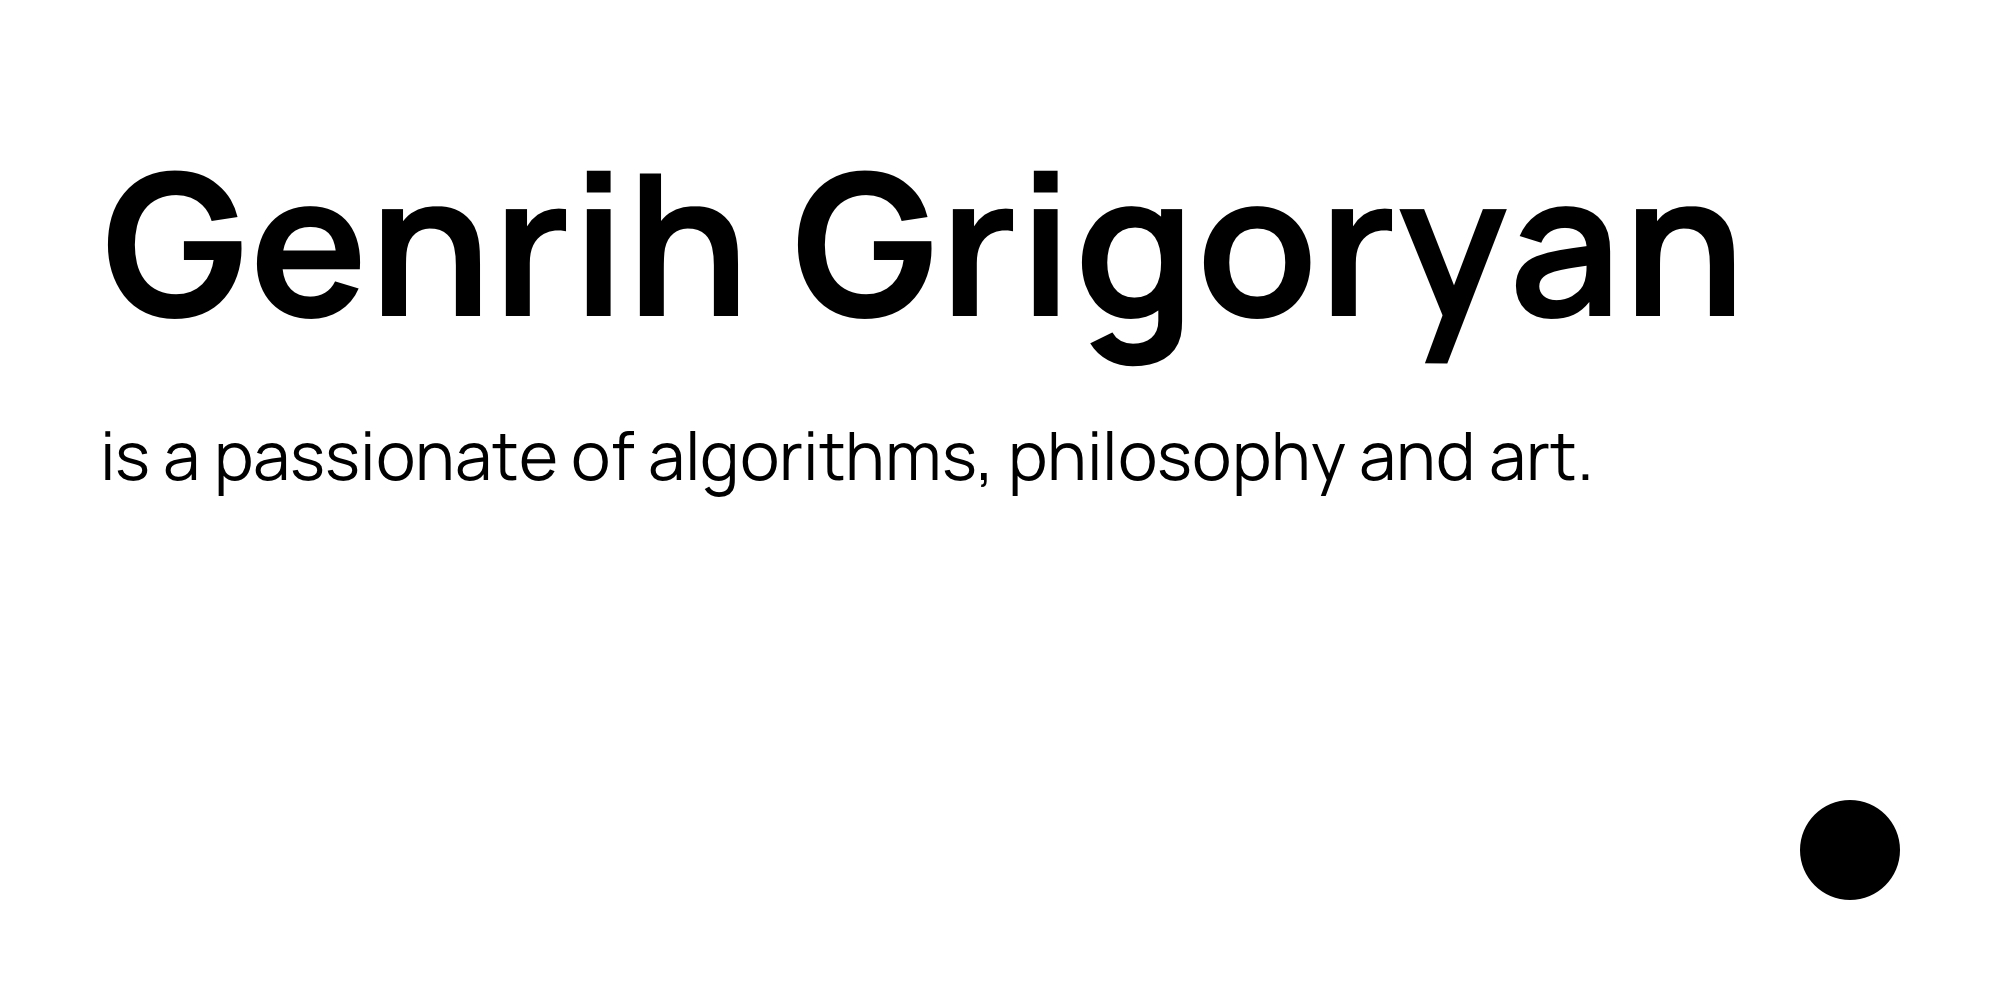
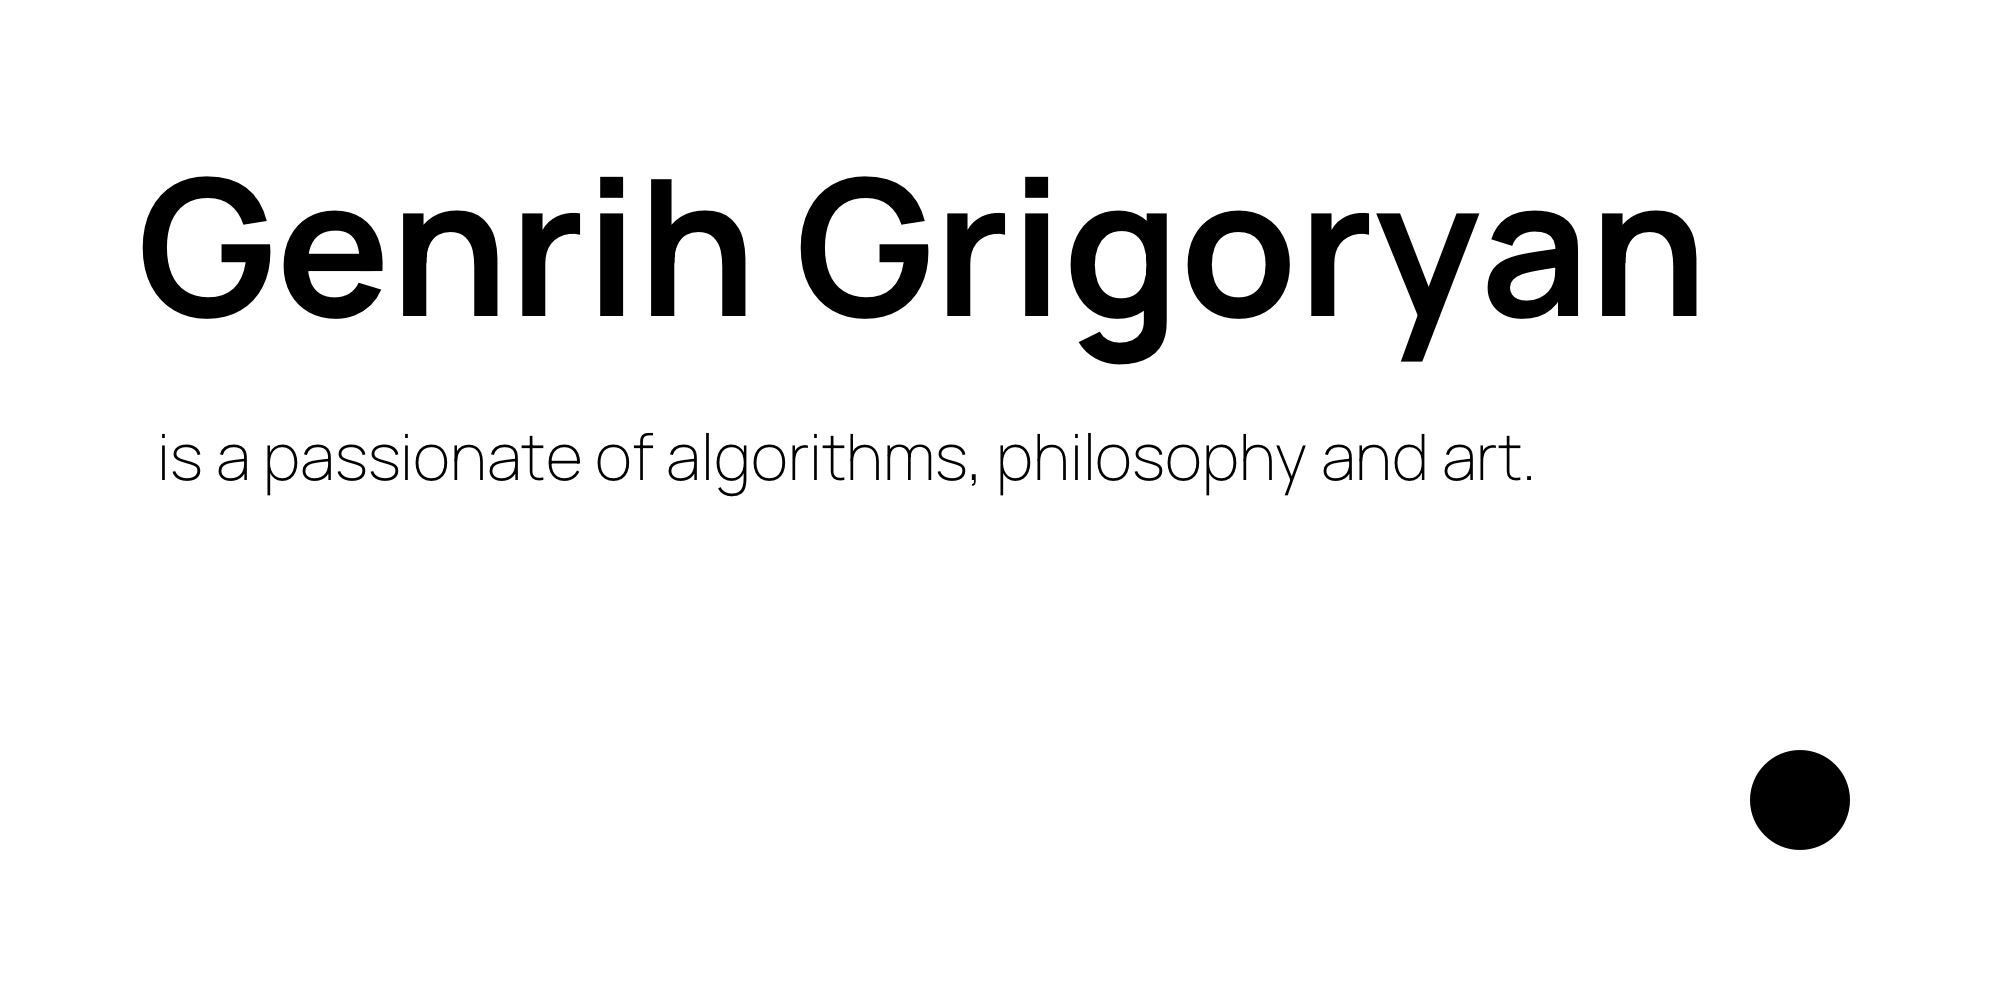
origin

diff --git a/index.html b/index.html
@@ -47,22 +47,38 @@
       </ul>
     </li>
   -->
+
+  <li><strong><a class = "internal-link" href="https://origin.genrihgrigoryan.com">Origin</a></strong>
+    <p>A place where all of my cultural activity converge to one point.
+    <br/>Unites the <strong><a class="internal-link" href="https://origin.genrihgrigoryan.com/eidoslib">Information</a></strong> i research, <strong><a class="internal-link" href="https://origin.genrihgrigoryan.com/exlimbus">Ideas</a></strong> i find, and <strong><a class="internal-link" href="https://origin.genrihgrigoryan.com/discreteblack">Art</a></strong> i create.
+    </p>
+    <hr>
+  </li>
+
     <li><strong><a class = "internal-link" href="https://badmangames.com">Badmangames</a></strong>
+      <p>My past mobile indie game development.
+      <br/>Released <strong><a class = "internal-link" href="">Last Light</a></strong>, <strong><a class = "internal-link" href="">Skid Rally</a></strong> and <strong><a class = "internal-link" href="">Cyber Gun Flip</a></strong>.
+      </p>
+      <!--
       <ul>
         <li><a href="">Last Light</a></li>
         <li><a href="">Skid Rally</a></li>
         <li><a href="">Cyber Gun Flip</a></li>
       </ul>
+      -->
     </li>
   </ul>
 
   <h2 id="Contacts">Contacts</h2>
+  <a href="https://t.me/genrihgrigoryan">Telegram</a> . <a href="https://vk.com/genrihgrigoryan">VK</a> . <a href="mailto:iamgenrih@gmail.com">Email</a>
+  <!--
   <ul>
-    <li><a href="https://vk.com/genrihgrigoryan">VK</a></li>
-    <li><a href="https://t.me/genrihgrigoryan">Telegram</a></li>
-    <li><a href="mailto:iamgenrih@gmail.com">Email</a></li>
-  </ul>
+    <li><a href="https://vk.com/genrihgrigoryan">vk</a></li>
+    <li><a href="https://t.me/genrihgrigoryan">telegram</a></li>
+    <li><a href="mailto:iamgenrih@gmail.com">email</a></li>
 
+  </ul>
+-->
 
   <footer>
     <div style="margin:4em auto; font-size: 18px; text-align:center;">

diff --git a/style.css b/style.css
@@ -69,7 +69,7 @@ html {
     */
     font-family: Manrope, sans-serif;
     font-weight: 300;
-    font-size: 1.4rem;
+    font-size: 1.2rem;
     line-height: 1.5; /* 160%; */
 
     margin: 2px;
